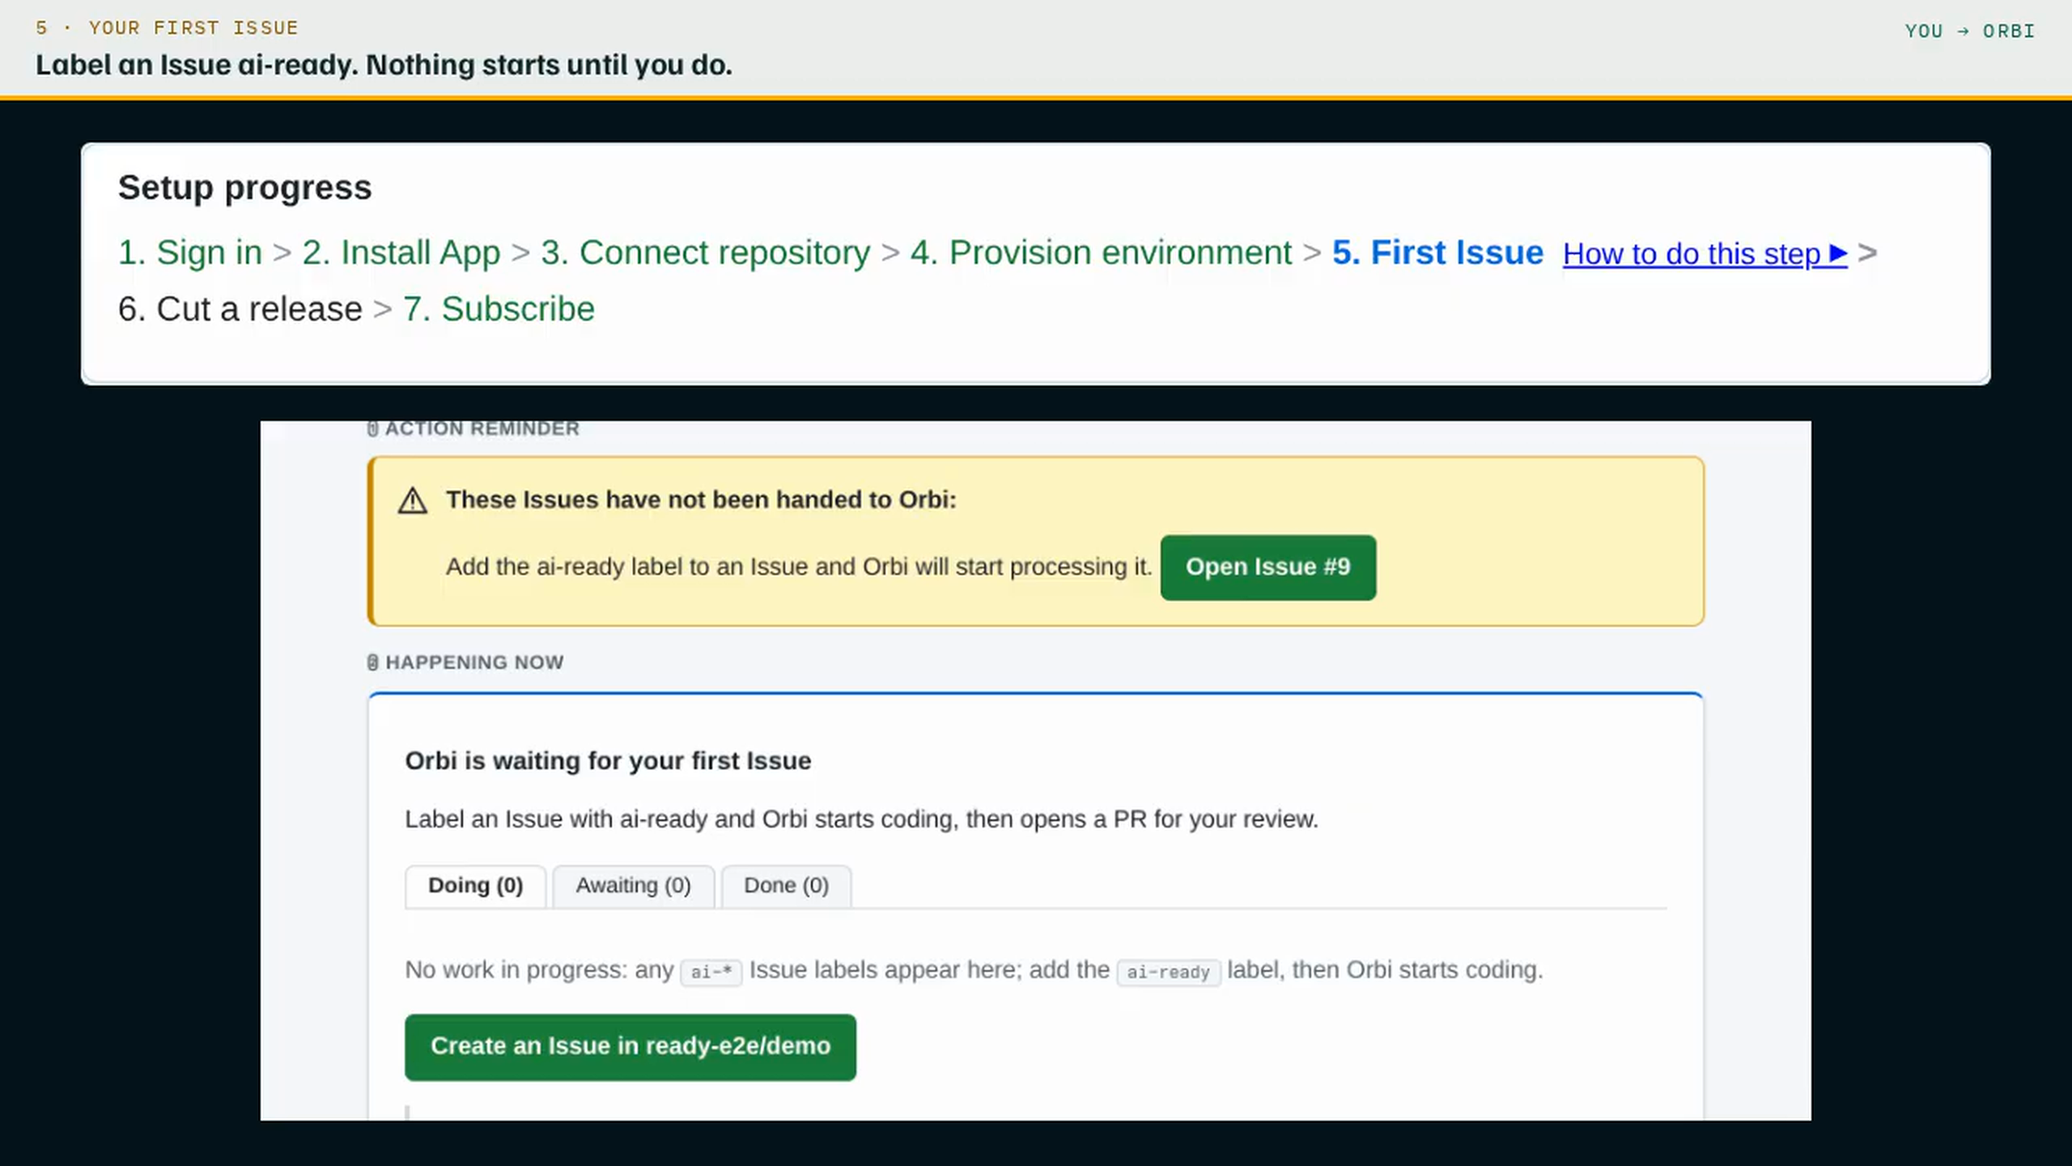
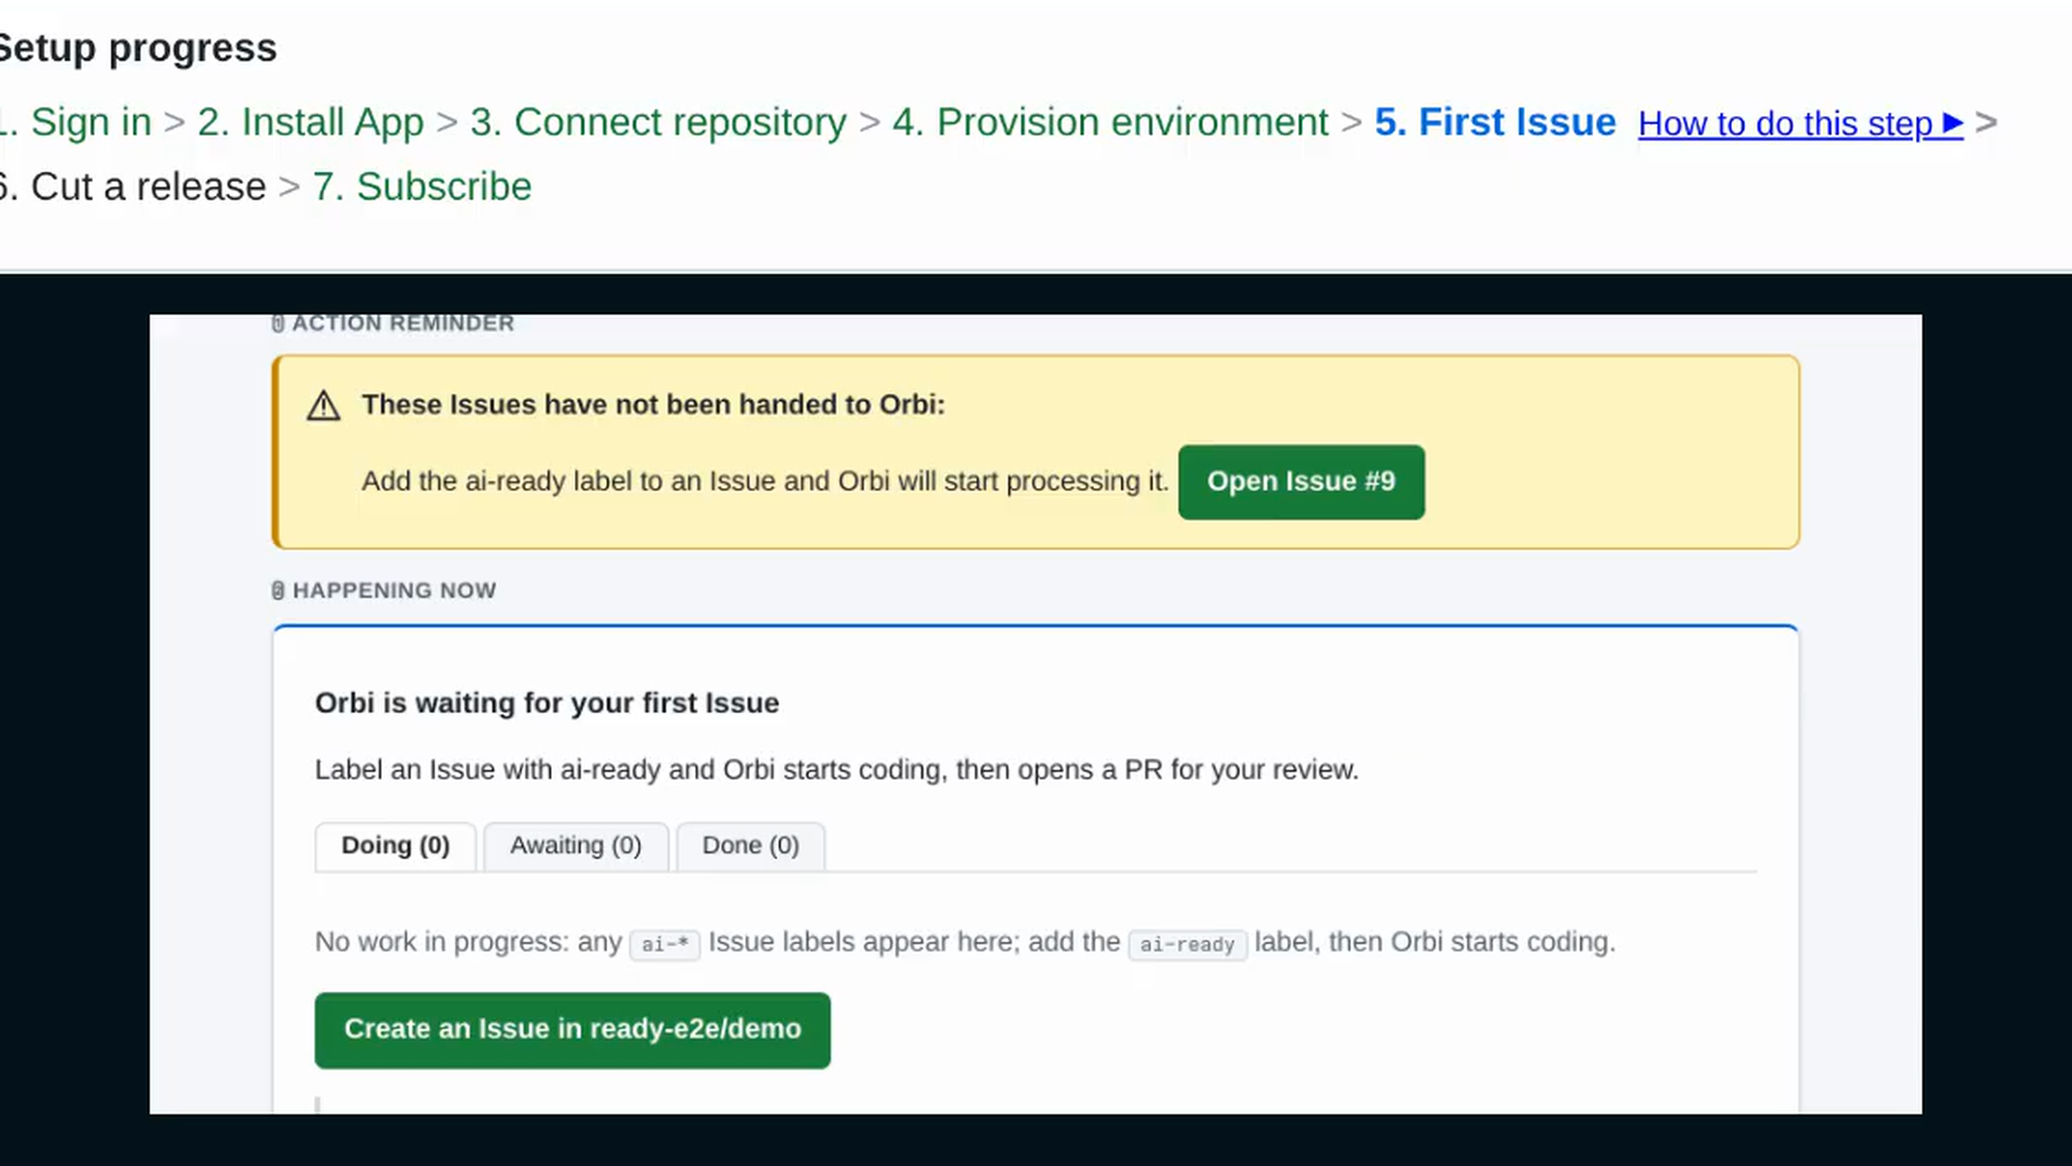
fix(blog): replace onboarding step screenshots

diff --git a/public/blog/watch-the-six-steps/index.html b/public/blog/watch-the-six-steps/index.html
@@ -88,25 +88,25 @@
 <p>There is now a video of the whole setup: <a href="https://www.youtube.com/watch?v=_OEaBwrLvvs">Orbi Cloud: from zero to a tagged release in seven steps</a>. It runs 83 seconds, it is in English, and it has chapters, so you can jump to the step you are stuck on.</p>
 <figure class="post-media"><iframe src="https://www.youtube.com/embed/_OEaBwrLvvs" title="Orbi Cloud setup from zero to subscription in seven steps" loading="lazy" allow="accelerometer; autoplay; clipboard-write; encrypted-media; gyroscope; picture-in-picture" allowfullscreen></iframe><figcaption>Watch the complete seven-step Orbi Cloud setup.</figcaption></figure><h3>Seven key screens from the seven-step flow</h3>
 <figure class="post-media">
-<img src="/img/step-1-sign-in.png" alt="Orbi Cloud sign-in screen" width="2560" height="1440" srcset="/img/step-1-sign-in.png 2560w" sizes="(min-width: 900px) 784px, 100vw" loading="eager">
+<img src="/img/step-1-sign-in-2x.png" alt="Orbi Cloud sign-in screen" width="2560" height="1440" srcset="/img/step-1-sign-in-2x.png 2x" sizes="(min-width: 900px) 784px, 100vw" loading="eager">
 <figcaption>Step 1: Orbi Cloud sign-in screen.</figcaption>
 </figure><figure class="post-media">
-<img src="/img/step-2-install-app.png" alt="GitHub App installation screen" width="2560" height="1440" srcset="/img/step-2-install-app.png 2560w" sizes="(min-width: 900px) 784px, 100vw" loading="eager">
+<img src="/img/step-2-install-app-2x.png" alt="GitHub App installation screen" width="2560" height="1440" srcset="/img/step-2-install-app-2x.png 2x" sizes="(min-width: 900px) 784px, 100vw" loading="eager">
 <figcaption>Step 2: GitHub App installation screen.</figcaption>
 </figure><figure class="post-media">
-<img src="/img/step-3-connect-repo.png" alt="Repository connection form" width="2560" height="1440" srcset="/img/step-3-connect-repo.png 2560w" sizes="(min-width: 900px) 784px, 100vw">
+<img src="/img/step-3-connect-repo-2x.png" alt="Repository connection form" width="2560" height="1440" srcset="/img/step-3-connect-repo-2x.png 2x" sizes="(min-width: 900px) 784px, 100vw">
 <figcaption>Step 3: Repository connection form.</figcaption>
 </figure><figure class="post-media">
-<img src="/img/step-4-provision.png" alt="Environment provisioning status" width="2560" height="1440" srcset="/img/step-4-provision.png 2560w" sizes="(min-width: 900px) 784px, 100vw">
+<img src="/img/step-4-provision-2x.png" alt="Environment provisioning status" width="2560" height="1440" srcset="/img/step-4-provision-2x.png 2x" sizes="(min-width: 900px) 784px, 100vw">
 <figcaption>Step 4: Environment provisioning status.</figcaption>
 </figure><figure class="post-media">
-<img src="/img/step-5-first-issue.png" alt="First Issue status screen" width="2560" height="1440" srcset="/img/step-5-first-issue.png 2560w" sizes="(min-width: 900px) 784px, 100vw">
+<img src="/img/step-5-first-issue-2x.png" alt="First Issue status screen" width="2560" height="1440" srcset="/img/step-5-first-issue-2x.png 2x" sizes="(min-width: 900px) 784px, 100vw">
 <figcaption>Step 5: First Issue status screen.</figcaption>
 </figure><figure class="post-media">
-<img src="/img/step-6-release.png" alt="Release form with version field" width="2560" height="1440" srcset="/img/step-6-release.png 2560w" sizes="(min-width: 900px) 784px, 100vw">
+<img src="/img/step-6-release-2x.png" alt="Release form with version field" width="2560" height="1440" srcset="/img/step-6-release-2x.png 2x" sizes="(min-width: 900px) 784px, 100vw">
 <figcaption>Step 6: Release form with version field.</figcaption>
 </figure><figure class="post-media">
-<img src="/img/step-7-subscribe.png" alt="Managed Cloud subscription screen" width="2560" height="1440" srcset="/img/step-7-subscribe.png 2560w" sizes="(min-width: 900px) 784px, 100vw">
+<img src="/img/step-7-subscribe-2x.png" alt="Managed Cloud subscription screen" width="2560" height="1440" srcset="/img/step-7-subscribe-2x.png 2x" sizes="(min-width: 900px) 784px, 100vw">
 <figcaption>Step 7: Managed Cloud subscription screen.</figcaption>
 </figure><p>The seven steps are the current Cloud onboarding path:</p>
 <ol>

diff --git a/public/zh/blog/watch-the-six-steps/index.html b/public/zh/blog/watch-the-six-steps/index.html
@@ -88,25 +88,25 @@
 <p>上手流程现在有视频了：<a href="https://www.youtube.com/watch?v=_OEaBwrLvvs">Orbi Cloud: from zero to a tagged release in seven steps</a>。83 秒，英文，带章节，卡在哪一步就跳到哪一步。</p>
 <figure class="post-media"><iframe src="https://www.youtube.com/embed/_OEaBwrLvvs" title="Orbi Cloud 七步上手流程：从登录到订阅" loading="lazy" allow="accelerometer; autoplay; clipboard-write; encrypted-media; gyroscope; picture-in-picture" allowfullscreen></iframe><figcaption>观看完整的七步 Orbi Cloud 上手流程。</figcaption></figure><h3>七步流程里的七个关键画面</h3>
 <figure class="post-media">
-<img src="/img/step-1-sign-in.png" alt="Orbi Cloud 登录页面" width="2560" height="1440" srcset="/img/step-1-sign-in.png 2560w" sizes="(min-width: 900px) 784px, 100vw" loading="eager">
+<img src="/img/step-1-sign-in-2x.png" alt="Orbi Cloud 登录页面" width="2560" height="1440" srcset="/img/step-1-sign-in-2x.png 2x" sizes="(min-width: 900px) 784px, 100vw" loading="eager">
 <figcaption>第 1 步：Orbi Cloud 登录页面。</figcaption>
 </figure><figure class="post-media">
-<img src="/img/step-2-install-app.png" alt="GitHub App 安装页面" width="2560" height="1440" srcset="/img/step-2-install-app.png 2560w" sizes="(min-width: 900px) 784px, 100vw" loading="eager">
+<img src="/img/step-2-install-app-2x.png" alt="GitHub App 安装页面" width="2560" height="1440" srcset="/img/step-2-install-app-2x.png 2x" sizes="(min-width: 900px) 784px, 100vw" loading="eager">
 <figcaption>第 2 步：GitHub App 安装页面。</figcaption>
 </figure><figure class="post-media">
-<img src="/img/step-3-connect-repo.png" alt="连接仓库表单" width="2560" height="1440" srcset="/img/step-3-connect-repo.png 2560w" sizes="(min-width: 900px) 784px, 100vw">
+<img src="/img/step-3-connect-repo-2x.png" alt="连接仓库表单" width="2560" height="1440" srcset="/img/step-3-connect-repo-2x.png 2x" sizes="(min-width: 900px) 784px, 100vw">
 <figcaption>第 3 步：连接仓库表单。</figcaption>
 </figure><figure class="post-media">
-<img src="/img/step-4-provision.png" alt="开通运行环境状态" width="2560" height="1440" srcset="/img/step-4-provision.png 2560w" sizes="(min-width: 900px) 784px, 100vw">
+<img src="/img/step-4-provision-2x.png" alt="开通运行环境状态" width="2560" height="1440" srcset="/img/step-4-provision-2x.png 2x" sizes="(min-width: 900px) 784px, 100vw">
 <figcaption>第 4 步：开通运行环境状态。</figcaption>
 </figure><figure class="post-media">
-<img src="/img/step-5-first-issue.png" alt="第一个 Issue 的状态页面" width="2560" height="1440" srcset="/img/step-5-first-issue.png 2560w" sizes="(min-width: 900px) 784px, 100vw">
+<img src="/img/step-5-first-issue-2x.png" alt="第一个 Issue 的状态页面" width="2560" height="1440" srcset="/img/step-5-first-issue-2x.png 2x" sizes="(min-width: 900px) 784px, 100vw">
 <figcaption>第 5 步：第一个 Issue 的状态页面。</figcaption>
 </figure><figure class="post-media">
-<img src="/img/step-6-release.png" alt="填写版本号的发版表单" width="2560" height="1440" srcset="/img/step-6-release.png 2560w" sizes="(min-width: 900px) 784px, 100vw">
+<img src="/img/step-6-release-2x.png" alt="填写版本号的发版表单" width="2560" height="1440" srcset="/img/step-6-release-2x.png 2x" sizes="(min-width: 900px) 784px, 100vw">
 <figcaption>第 6 步：填写版本号的发版表单。</figcaption>
 </figure><figure class="post-media">
-<img src="/img/step-7-subscribe.png" alt="Managed Cloud 订阅页面" width="2560" height="1440" srcset="/img/step-7-subscribe.png 2560w" sizes="(min-width: 900px) 784px, 100vw">
+<img src="/img/step-7-subscribe-2x.png" alt="Managed Cloud 订阅页面" width="2560" height="1440" srcset="/img/step-7-subscribe-2x.png 2x" sizes="(min-width: 900px) 784px, 100vw">
 <figcaption>第 7 步：Managed Cloud 订阅页面。</figcaption>
 </figure><p>现在的 Cloud 上手流程一共七步：</p>
 <ol>

diff --git a/tests/blog-step-images.test.js b/tests/blog-step-images.test.js
@@ -1,0 +1,70 @@
+import { chromium } from "@playwright/test";
+import { createServer } from "node:http";
+import { readFile } from "node:fs/promises";
+import { extname, join } from "node:path";
+import { afterAll, beforeAll, describe, expect, it } from "vitest";
+
+const routes = ["/blog/watch-the-six-steps/", "/zh/blog/watch-the-six-steps/"];
+const types = { ".html": "text/html", ".css": "text/css", ".png": "image/png", ".svg": "image/svg+xml" };
+let server;
+let browser;
+let origin;
+
+beforeAll(async () => {
+  server = createServer(async (request, response) => {
+    const pathname = new URL(request.url, "http://localhost").pathname;
+    const relative = pathname.replace(/^\/+/, "") || "index.html";
+    let filePath = join("public", relative);
+    let file = await readFile(filePath).catch(() => null);
+    if (!file) {
+      filePath = join("public", relative, "index.html");
+      file = await readFile(filePath).catch(() => null);
+    }
+    if (!file) { response.writeHead(404); response.end(); return; }
+    response.writeHead(200, { "content-type": types[extname(filePath)] ?? "application/octet-stream" });
+    response.end(file);
+  });
+  await new Promise((resolve) => server.listen(0, "127.0.0.1", resolve));
+  origin = `http://127.0.0.1:${server.address().port}`;
+  browser = await chromium.launch({ headless: true });
+});
+
+afterAll(async () => {
+  await browser?.close();
+  await new Promise((resolve) => server?.close(resolve));
+});
+
+describe("seven-step blog images (Issue #356)", () => {
+  for (const route of routes) {
+    for (const width of [390, 1440]) {
+      it(`${route} serves every image at DPR 2 without distortion at ${width}px`, async () => {
+        const page = await browser.newPage({ deviceScaleFactor: 2, viewport: { width, height: 900 } });
+        try {
+          await page.goto(`${origin}${route}`, { waitUntil: "load", timeout: 25_000 });
+          await page.locator("img[src*='/img/step-']").first().waitFor();
+          const results = await page.locator("img[src*='/img/step-']").evaluateAll((images) => images.map((image) => {
+            const rect = image.getBoundingClientRect();
+            return {
+              naturalWidth: image.naturalWidth,
+              naturalHeight: image.naturalHeight,
+              currentSrc: image.currentSrc,
+              dpr: window.devicePixelRatio,
+              renderedWidth: rect.width,
+              renderedHeight: rect.height,
+              ratio: image.naturalWidth / image.naturalHeight,
+              renderedRatio: rect.width / rect.height,
+            };
+          }));
+          expect(results).toHaveLength(7);
+          for (const result of results) {
+            expect(result.naturalWidth).toBeGreaterThanOrEqual(result.renderedWidth * 2);
+            expect(Math.abs(result.ratio - result.renderedRatio)).toBeLessThan(0.02);
+          }
+          expect(new Set(results.map((result) => result.ratio)).size).toBe(1);
+        } finally {
+          await page.close();
+        }
+      });
+    }
+  }
+});

diff --git a/tests/pages.test.js b/tests/pages.test.js
@@ -1285,7 +1285,8 @@ describe("blog rich metadata and safe media (Issue #328)", () => {
     expect(stepImages).toHaveLength(7);
 
     for (const [, src] of stepImages) {
-      const png = await readFile(join(ROOT, "public", src));
+      const baseSrc = src.replace(/-2x\.png$/, ".png");
+      const png = await readFile(join(ROOT, "public", baseSrc));
       expect(png.subarray(1, 4).toString()).toBe("PNG");
       const width = png.readUInt32BE(16);
       const height = png.readUInt32BE(20);
@@ -1293,7 +1294,7 @@ describe("blog rich metadata and safe media (Issue #328)", () => {
     }
     for (const match of stepImages) {
       expect(match[0]).toContain(`width="2560" height="1440"`);
-      expect(match[0]).toContain(`srcset="${match[1]} 2560w"`);
+      expect(match[0]).toContain(`srcset="${match[1]} 2x"`);
       expect(match[0]).toContain('sizes="(min-width: 900px) 784px, 100vw"');
     }
   });

diff --git a/content/blog/watch-the-six-steps.md b/content/blog/watch-the-six-steps.md
@@ -20,37 +20,37 @@ There is now a video of the whole setup: [Orbi Cloud: from zero to a tagged rele
 ### Seven key screens from the seven-step flow
 
 <figure class="post-media">
-<img src="/img/step-1-sign-in.png" alt="Orbi Cloud sign-in screen" width="2560" height="1440" srcset="/img/step-1-sign-in.png 2560w" sizes="(min-width: 900px) 784px, 100vw" loading="eager">
+<img src="/img/step-1-sign-in-2x.png" alt="Orbi Cloud sign-in screen" width="2560" height="1440" srcset="/img/step-1-sign-in-2x.png 2x" sizes="(min-width: 900px) 784px, 100vw" loading="eager">
 <figcaption>Step 1: Orbi Cloud sign-in screen.</figcaption>
 </figure>
 
 <figure class="post-media">
-<img src="/img/step-2-install-app.png" alt="GitHub App installation screen" width="2560" height="1440" srcset="/img/step-2-install-app.png 2560w" sizes="(min-width: 900px) 784px, 100vw" loading="eager">
+<img src="/img/step-2-install-app-2x.png" alt="GitHub App installation screen" width="2560" height="1440" srcset="/img/step-2-install-app-2x.png 2x" sizes="(min-width: 900px) 784px, 100vw" loading="eager">
 <figcaption>Step 2: GitHub App installation screen.</figcaption>
 </figure>
 
 <figure class="post-media">
-<img src="/img/step-3-connect-repo.png" alt="Repository connection form" width="2560" height="1440" srcset="/img/step-3-connect-repo.png 2560w" sizes="(min-width: 900px) 784px, 100vw">
+<img src="/img/step-3-connect-repo-2x.png" alt="Repository connection form" width="2560" height="1440" srcset="/img/step-3-connect-repo-2x.png 2x" sizes="(min-width: 900px) 784px, 100vw">
 <figcaption>Step 3: Repository connection form.</figcaption>
 </figure>
 
 <figure class="post-media">
-<img src="/img/step-4-provision.png" alt="Environment provisioning status" width="2560" height="1440" srcset="/img/step-4-provision.png 2560w" sizes="(min-width: 900px) 784px, 100vw">
+<img src="/img/step-4-provision-2x.png" alt="Environment provisioning status" width="2560" height="1440" srcset="/img/step-4-provision-2x.png 2x" sizes="(min-width: 900px) 784px, 100vw">
 <figcaption>Step 4: Environment provisioning status.</figcaption>
 </figure>
 
 <figure class="post-media">
-<img src="/img/step-5-first-issue.png" alt="First Issue status screen" width="2560" height="1440" srcset="/img/step-5-first-issue.png 2560w" sizes="(min-width: 900px) 784px, 100vw">
+<img src="/img/step-5-first-issue-2x.png" alt="First Issue status screen" width="2560" height="1440" srcset="/img/step-5-first-issue-2x.png 2x" sizes="(min-width: 900px) 784px, 100vw">
 <figcaption>Step 5: First Issue status screen.</figcaption>
 </figure>
 
 <figure class="post-media">
-<img src="/img/step-6-release.png" alt="Release form with version field" width="2560" height="1440" srcset="/img/step-6-release.png 2560w" sizes="(min-width: 900px) 784px, 100vw">
+<img src="/img/step-6-release-2x.png" alt="Release form with version field" width="2560" height="1440" srcset="/img/step-6-release-2x.png 2x" sizes="(min-width: 900px) 784px, 100vw">
 <figcaption>Step 6: Release form with version field.</figcaption>
 </figure>
 
 <figure class="post-media">
-<img src="/img/step-7-subscribe.png" alt="Managed Cloud subscription screen" width="2560" height="1440" srcset="/img/step-7-subscribe.png 2560w" sizes="(min-width: 900px) 784px, 100vw">
+<img src="/img/step-7-subscribe-2x.png" alt="Managed Cloud subscription screen" width="2560" height="1440" srcset="/img/step-7-subscribe-2x.png 2x" sizes="(min-width: 900px) 784px, 100vw">
 <figcaption>Step 7: Managed Cloud subscription screen.</figcaption>
 </figure>
 

diff --git a/content/blog/zh/watch-the-six-steps.md b/content/blog/zh/watch-the-six-steps.md
@@ -20,37 +20,37 @@ video_embed_url: https://www.youtube.com/embed/_OEaBwrLvvs
 ### 七步流程里的七个关键画面
 
 <figure class="post-media">
-<img src="/img/step-1-sign-in.png" alt="Orbi Cloud 登录页面" width="2560" height="1440" srcset="/img/step-1-sign-in.png 2560w" sizes="(min-width: 900px) 784px, 100vw" loading="eager">
+<img src="/img/step-1-sign-in-2x.png" alt="Orbi Cloud 登录页面" width="2560" height="1440" srcset="/img/step-1-sign-in-2x.png 2x" sizes="(min-width: 900px) 784px, 100vw" loading="eager">
 <figcaption>第 1 步：Orbi Cloud 登录页面。</figcaption>
 </figure>
 
 <figure class="post-media">
-<img src="/img/step-2-install-app.png" alt="GitHub App 安装页面" width="2560" height="1440" srcset="/img/step-2-install-app.png 2560w" sizes="(min-width: 900px) 784px, 100vw" loading="eager">
+<img src="/img/step-2-install-app-2x.png" alt="GitHub App 安装页面" width="2560" height="1440" srcset="/img/step-2-install-app-2x.png 2x" sizes="(min-width: 900px) 784px, 100vw" loading="eager">
 <figcaption>第 2 步：GitHub App 安装页面。</figcaption>
 </figure>
 
 <figure class="post-media">
-<img src="/img/step-3-connect-repo.png" alt="连接仓库表单" width="2560" height="1440" srcset="/img/step-3-connect-repo.png 2560w" sizes="(min-width: 900px) 784px, 100vw">
+<img src="/img/step-3-connect-repo-2x.png" alt="连接仓库表单" width="2560" height="1440" srcset="/img/step-3-connect-repo-2x.png 2x" sizes="(min-width: 900px) 784px, 100vw">
 <figcaption>第 3 步：连接仓库表单。</figcaption>
 </figure>
 
 <figure class="post-media">
-<img src="/img/step-4-provision.png" alt="开通运行环境状态" width="2560" height="1440" srcset="/img/step-4-provision.png 2560w" sizes="(min-width: 900px) 784px, 100vw">
+<img src="/img/step-4-provision-2x.png" alt="开通运行环境状态" width="2560" height="1440" srcset="/img/step-4-provision-2x.png 2x" sizes="(min-width: 900px) 784px, 100vw">
 <figcaption>第 4 步：开通运行环境状态。</figcaption>
 </figure>
 
 <figure class="post-media">
-<img src="/img/step-5-first-issue.png" alt="第一个 Issue 的状态页面" width="2560" height="1440" srcset="/img/step-5-first-issue.png 2560w" sizes="(min-width: 900px) 784px, 100vw">
+<img src="/img/step-5-first-issue-2x.png" alt="第一个 Issue 的状态页面" width="2560" height="1440" srcset="/img/step-5-first-issue-2x.png 2x" sizes="(min-width: 900px) 784px, 100vw">
 <figcaption>第 5 步：第一个 Issue 的状态页面。</figcaption>
 </figure>
 
 <figure class="post-media">
-<img src="/img/step-6-release.png" alt="填写版本号的发版表单" width="2560" height="1440" srcset="/img/step-6-release.png 2560w" sizes="(min-width: 900px) 784px, 100vw">
+<img src="/img/step-6-release-2x.png" alt="填写版本号的发版表单" width="2560" height="1440" srcset="/img/step-6-release-2x.png 2x" sizes="(min-width: 900px) 784px, 100vw">
 <figcaption>第 6 步：填写版本号的发版表单。</figcaption>
 </figure>
 
 <figure class="post-media">
-<img src="/img/step-7-subscribe.png" alt="Managed Cloud 订阅页面" width="2560" height="1440" srcset="/img/step-7-subscribe.png 2560w" sizes="(min-width: 900px) 784px, 100vw">
+<img src="/img/step-7-subscribe-2x.png" alt="Managed Cloud 订阅页面" width="2560" height="1440" srcset="/img/step-7-subscribe-2x.png 2x" sizes="(min-width: 900px) 784px, 100vw">
 <figcaption>第 7 步：Managed Cloud 订阅页面。</figcaption>
 </figure>
 
